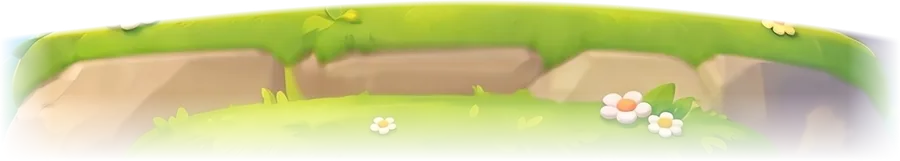
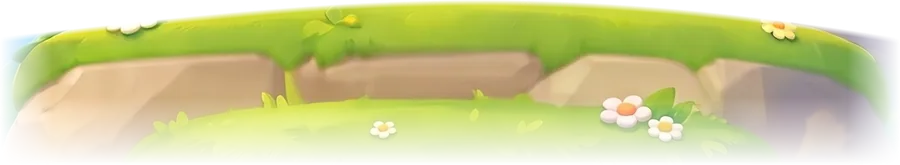
Hammer slams from above, side glance for back-view player, front KO face, home fits without scrolling
Claude-Session: https://claude.ai/code/session_0151HyQbunyEVHQk27fvCMAu

diff --git a/index.html b/index.html
@@ -19,7 +19,7 @@ body{margin:0;font:14px system-ui,sans-serif}
 </style>
 <script>
 (function () {
-  var BUILD = '20261109125856';
+  var BUILD = '20261109130441';
   function check() {
     fetch('version.txt?t=' + Date.now(), { cache: 'no-store' }).then(function (r) { return r.ok ? r.text() : BUILD; }).then(function (v) {
       v = (v || '').trim();
@@ -374,13 +374,14 @@ p.res-tap{display:flex;align-items:center;justify-content:center;gap:4px;font-fa
 @media (prefers-reduced-motion: reduce){*{animation-duration:1ms!important;animation-iteration-count:1!important}}
 
 /* ===== 3D redesign (backup of the previous look: backup/game.template.pre-redesign.html, git branch backup-pre-redesign) ===== */
-#home{background:#8FD3FF url(img/bg.webp?v=20261109125856) center bottom/cover no-repeat}
+#home{background:#8FD3FF url(img/bg.webp?v=20261109130441) center bottom/cover no-repeat;background-attachment:local}
+.char.mirror img.cimg{scale:-1 1}
 .deco .dtile{position:absolute;width:52px;height:auto;opacity:.9;transform:rotate(var(--r));animation:bob 4s ease-in-out infinite}
 @keyframes bob{50%{transform:rotate(var(--r)) translateY(-6px)}}
-.logo-img{width:min(86vw,360px,calc((100dvh - 520px) * 1.4));min-width:190px;height:auto;filter:drop-shadow(0 6px 10px rgba(40,60,120,.25));animation:tileIn .6s cubic-bezier(.2,1.6,.4,1) both}
+.logo-img{width:min(82vw,320px,calc((100dvh - 540px) * 1.3));min-width:190px;height:auto;filter:drop-shadow(0 6px 10px rgba(40,60,120,.25));animation:tileIn .6s cubic-bezier(.2,1.6,.4,1) both}
 .ribbon{background:rgba(255,248,240,.92);border:2.5px solid #F2A7BC;border-radius:999px;padding:6px 18px;box-shadow:0 3px 8px rgba(80,60,40,.15);font-size:16px}
 .stage{flex:none;min-height:0;margin-bottom:-4px;align-items:flex-end}
-.stage img.hcast{display:block;width:100%;height:auto;max-height:min(190px,21dvh);object-fit:contain;object-position:center bottom;animation:none}
+.stage img.hcast{display:block;width:100%;height:auto;max-height:min(180px,19dvh);object-fit:contain;object-position:center bottom;animation:none}
 .stage img.hc{height:100%;width:auto;filter:drop-shadow(0 8px 6px rgba(40,60,20,.25))}
 .stage .vsimg{align-self:center;height:min(52%,60px);width:auto;margin:0 -4px 18px;animation:bob 2.2s ease-in-out infinite;--r:0deg}
 .field{background:none;border-top:0;border-radius:0;padding-top:14px}
@@ -391,7 +392,7 @@ p.res-tap{display:flex;align-items:center;justify-content:center;gap:4px;font-fa
 .copy{color:#fff;opacity:.9;text-shadow:0 1px 3px rgba(0,0,0,.35)}
 @media (max-height:700px){.mmain{padding-block:6px}.micon{width:40px;height:40px}.mtext b{font-size:20px}.field{gap:9px;padding-top:8px}}
 /* game arena: the painted meadow; the opponent stands on the grassy ledge */
-#arena{background:#8FD3FF url(img/bg.webp?v=20261109125856) center 66%/cover no-repeat}
+#arena{background:#8FD3FF url(img/bg.webp?v=20261109130441) center 66%/cover no-repeat}
 #arena .sun,#arena .cloud,#arena .ground,#arena .ground2,#arena .groundT,#arena .groundT2,#arena .hill{display:none}
 .char img.cimg{height:100%;width:auto;display:block;animation:breathe 2.6s ease-in-out infinite;transform-origin:50% 100%;filter:drop-shadow(0 6px 5px rgba(30,50,20,.3));-webkit-user-drag:none;user-select:none}
 #char1 img.cimg{animation-delay:-1.3s}
@@ -408,7 +409,7 @@ p.res-tap{display:flex;align-items:center;justify-content:center;gap:4px;font-fa
 @keyframes drip{0%{transform:translateY(0);opacity:1}100%{transform:translateY(60px);opacity:0}}
 .tut-art.lobby img{height:100%;width:auto}
 /* letter tiles thrown on the first hit look like the toy block */
-.fly{background:url(img/block.webp?v=20261109125856) center/contain no-repeat;border:0;width:38px;height:38px;margin:-19px 0 0 -19px;box-shadow:none;color:#6B4A1E;padding-top:3px;box-sizing:border-box}
+.fly{background:url(img/block.webp?v=20261109130441) center/contain no-repeat;border:0;width:38px;height:38px;margin:-19px 0 0 -19px;box-shadow:none;color:#6B4A1E;padding-top:3px;box-sizing:border-box}
 </style>
 
 <style>
@@ -439,7 +440,7 @@ html,body{position:fixed;inset:0;overflow:hidden}
 <body>
 <div id="app">
   <section id="home" class="screen">
-    <div class="deco" aria-hidden="true"><img class="dtile" src="img/tileA.webp?v=20261109125856" alt="" style="left:3%;top:31%;--r:-8deg"><img class="dtile" src="img/tileQ.webp?v=20261109125856" alt="" style="right:3%;top:29%;--r:9deg;animation-delay:-1.2s"></div>
+    <div class="deco" aria-hidden="true"><img class="dtile" src="img/tileA.webp?v=20261109130441" alt="" style="left:3%;top:31%;--r:-8deg"><img class="dtile" src="img/tileQ.webp?v=20261109130441" alt="" style="right:3%;top:29%;--r:9deg;animation-delay:-1.2s"></div>
     <div class="home-top gut">
       <div class="lt-grp"><button class="pill" id="langBtn" type="button"></button><button class="pill nick-pill" id="nickBtn" type="button"></button></div>
       <div class="rt">
@@ -450,7 +451,7 @@ html,body{position:fixed;inset:0;overflow:hidden}
       </div>
     </div>
     <h1 class="title gut" aria-label="First n Last">
-      <img class="logo-img" src="img/logo.webp?v=20261109125856" alt="" draggable="false">
+      <img class="logo-img" src="img/logo.webp?v=20261109130441" alt="" draggable="false">
       <span class="ribbon" data-t="tagline"></span>
     </h1>
     <div class="stage" id="homeCast"></div>
@@ -475,7 +476,7 @@ html,body{position:fixed;inset:0;overflow:hidden}
       <div class="ground"></div><div class="ground2"></div><div class="groundT"></div><div class="groundT2"></div><div class="hill"></div>
       <div class="card" id="card1"><div class="nm" id="name1"></div><div class="hearts" id="hearts1"></div></div>
       <div class="hud" id="hud"><div class="clkwrap" id="clkW"><div class="clock" id="clock">2:00</div><div class="hint-cd" id="hintCd"></div></div></div>
-      <img class="plat" src="img/plat.webp?v=20261109125856" alt="" draggable="false"><div class="char" id="char1"></div>
+      <img class="plat" src="img/plat.webp?v=20261109130441" alt="" draggable="false"><div class="char" id="char1"></div>
       <div class="mid">
         <div class="side"><div class="tile tS">?</div><span data-t="startLbl"></span></div>
         <div id="center"></div>
@@ -717,13 +718,13 @@ const CHEV = '<svg viewBox="0 0 16 16" fill="none" stroke="currentColor" stroke-
 /* ---------- 3D character art (img/*.webp) ----------
    Each animal has 8 poses, seen from the front (f) and from behind (b):
    1 relaxed, 2 joyful jump, 3 puzzled scratch, 4 flinch, 5 one bandage, 6 two bandages, 7 knocked out, 8 wind-up throw */
-const IMGV = '20261109125856';
+const IMGV = '20261109130441';
 const img = n => `img/${n}.webp?v=${IMGV}`;
 const ANIMALS = ['capy', 'panda'];
 function preloadArt() {
   if (preloadArt.done) return; preloadArt.done = true;
   ANIMALS.forEach(a => ['f', 'b'].forEach(v => { for (let n = 1; n <= 8; n++) new Image().src = img(`${a}_${v}${n}`); }));
-  ['balloon', 'hammer', 'block'].forEach(n => { new Image().src = img(n); });
+  ['balloon', 'hammer', 'block', 'capy_s', 'panda_s'].forEach(n => { new Image().src = img(n); });
 }
 /* random animals for a game; online both phones work it out from the room code so they agree */
 function pickAnimals() {
@@ -1103,14 +1104,14 @@ function newGame(mode, noTut, noReady) {
   /* the very first game on this phone (solo or duo) is a short practice round against Lexi */
   const tutNext = (!noTut && mode !== 'online' && (TUT_EVERY_TIME || store('fl-tut') !== '1')) ? mode : null; if (tutNext) mode = 'ai';
   stopAll(); MUS.fast = false; setMusic('game');
-  Object.assign(G, { tipOn: false, tutWait: null, tut: tutNext ? { next: tutNext } : null, mode, diff, phase: 'pick', picks: [null, null], picker: 0, start: null, end: null, used: new Map(), order: [], scores: [0, 0], time: 180, active: null, passed: false, input: ['', ''], lock: [false, false], lockId: [null, null], lockLeft: [0, 0], hintUsed: false, pending: false, hints: [], hintDone: {}, faces: ['look', 'idle'], token: (G.token || 0) + 1 });
+  Object.assign(G, { tipOn: false, tutWait: null, tut: tutNext ? { next: tutNext } : null, mode, diff, phase: 'pick', picks: [null, null], picker: 0, start: null, end: null, used: new Map(), order: [], scores: [0, 0], time: 180, active: null, passed: false, input: ['', ''], lock: [false, false], lockId: [null, null], lockLeft: [0, 0], hintUsed: false, pending: false, hints: [], hintDone: {}, faces: ['idle', 'idle'], token: (G.token || 0) + 1 });
   $('home').hidden = true; $('game').hidden = false; $('ov').hidden = true;
   if (isDuo()) $('rail').parentNode.insertBefore($('tools'), $('rail').nextSibling); else $('hud').insertBefore($('tools'), $('clkW'));
   $('game').classList.toggle('duo', isDuo()); $('game').classList.toggle('online', mode === 'online');
   $('panel1').hidden = !isDuo();
   G.anim = pickAnimals(); preloadArt();
   $('char1').innerHTML = ''; $('char0').innerHTML = '';
-  setFace(0, 'look'); setFace(1, isDuo() ? 'look' : 'idle');
+  setFace(0, 'idle'); setFace(1, 'idle');
   $('fx').innerHTML = ''; document.querySelectorAll('.ko-banner,.bubble').forEach(e => e.remove());
   setTiles('?', '?'); renderClock(); renderNames(); renderHearts();
   if (mode === 'online') return; // the room drives the online flow
@@ -1145,11 +1146,13 @@ function drawFace(p) {
   const fmap = { idle: 'normal', throw: 'normal', look: 'normal', hit: 'hit', wet: 'wet', ko: 'ko', lose: 'ko', win: 'happy', scratch: 'normal' };
   const ko = face === 'ko' || (face === 'lose' && G.scores[other(p)] >= 3);
   const opts = { hits: Math.min(hits, 2), stars: ko, drops: face === 'wet', flat: ko };
-  const view = backStyle && face !== 'win' ? 'b' : 'f';
+  const view = backStyle && face !== 'win' && !ko ? 'b' : 'f';
+  const side = backStyle && face === 'look';
   const pose = { idle: 1, look: 1, throw: 8, hit: 4, wet: 4, scratch: 3, win: 2, ko: 7, lose: ko ? 7 : 3 }[face] || 1;
   const n = pose === 1 ? [1, 5, 6][opts.hits] : pose;
   charArt(el);
-  const im = el.querySelector('.cimg'), src = img(`${(G.anim || ANIMALS)[p]}_${view}${n}`);
+  const im = el.querySelector('.cimg'), src = img(side ? `${(G.anim || ANIMALS)[p]}_s` : `${(G.anim || ANIMALS)[p]}_${view}${n}`);
+  if (side) { if (im.getAttribute('src') !== src) el.classList.toggle('mirror', Math.random() < .5); } else el.classList.remove('mirror');
   if (im.getAttribute('src') !== src) im.setAttribute('src', src);
   el.classList.toggle('ko', ko); el.classList.toggle('wet', face === 'wet');
   el.querySelector('.cfx').innerHTML = ko ? '<i>★</i><i>★</i><i>★</i>' : face === 'wet' ? '<b></b><b></b><b></b>' : '';
@@ -1312,7 +1315,7 @@ function tutSkipBtn(on) {
 function tutPick() {
   tutSkipBtn(true);
   G.phase = 'pick'; G.picks = [null, null]; G.picker = 0; G.input = ['', ''];
-  setTiles('?', '?'); setFace(0, 'look'); setFace(1, 'idle'); renderPanels();
+  setTiles('?', '?'); setFace(0, 'idle'); setFace(1, 'idle'); renderPanels();
   setCenter(coach(t('tutPick'))); bindCoach();
   const b = $('panel0').querySelector('[data-k="C"]'); if (b) b.classList.add('tut-hi');
 }
@@ -1372,7 +1375,7 @@ function tutDone() {
 /* ---------- pick + roulette ---------- */
 function beginPick(msg) {
   G.phase = 'pick'; G.picks = [null, null]; G.picker = 0; G.input = ['', ''];
-  setTiles('?', '?'); setFace(0, 'look'); setFace(1, isDuo() ? 'look' : 'idle');
+  setTiles('?', '?'); setFace(0, 'idle'); setFace(1, 'idle');
   renderPanels(); pickPrompt(msg);
 }
 function pickPrompt(msg) {
@@ -1664,10 +1667,11 @@ async function attack(p, w, n, tok) {
     // Swing around the handle end so the bottom of the head lands on the target.
     el.style.cssText = 'position:absolute;left:-70px;top:-62px;transform-origin:14px 140px';
     holder.appendChild(el); $('fx').appendChild(holder);
-    await el.animate([{ transform: 'rotate(80deg)', opacity: 0 }, { transform: 'rotate(80deg)', opacity: 1, offset: .3 }, { transform: 'rotate(0deg)', opacity: 1 }], { duration: 700, easing: 'cubic-bezier(.55,0,.9,.55)', fill: 'forwards' }).finished;
+    /* raised high above the head, then slammed straight down */
+    await el.animate([{ transform: 'translate(6px,-150px) rotate(-38deg)', opacity: 0 }, { transform: 'translate(6px,-130px) rotate(-38deg)', opacity: 1, offset: .35 }, { transform: 'translate(4px,-140px) rotate(-48deg)', opacity: 1, offset: .55 }, { transform: 'translate(0,0) rotate(0deg)', opacity: 1 }], { duration: 760, easing: 'cubic-bezier(.6,0,.9,.5)', fill: 'forwards' }).finished;
     if (!live()) return;
     burst(to, BURST, lang === 'ko' ? '뿅!' : 'BONK!'); sfx('bonk'); setTimeout(() => live() && voice(q, 'aww'), 350); setFace(q, 'ko'); shakeArena();
-    el.animate([{ transform: 'rotate(0deg)' }, { transform: 'rotate(18deg)' }], { duration: 250, fill: 'forwards' });
+    el.animate([{ transform: 'translate(0,0) rotate(0deg)' }, { transform: 'translate(0,-26px) rotate(-14deg)' }], { duration: 250, fill: 'forwards' });
     setTimeout(() => holder.animate([{ opacity: 1 }, { opacity: 0 }], { duration: 400, fill: 'forwards' }).finished.then(() => holder.remove()), 700);
   }
   if (!live()) return;
@@ -2072,7 +2076,7 @@ function drawLobby() {
 function onlinePick(msg) {
   if (msg) sfx('wrong');
   G.phase = 'pick'; G.picks = [null, null]; G.picker = 0; G.input = ['', ''];
-  $('ov').hidden = true; setTiles('?', '?'); setFace(0, 'look'); setFace(1, 'idle');
+  $('ov').hidden = true; setTiles('?', '?'); setFace(0, 'idle'); setFace(1, 'idle');
   renderPanels(); pickPrompt(msg || '');
 }
 async function resolvePicks(r) {
